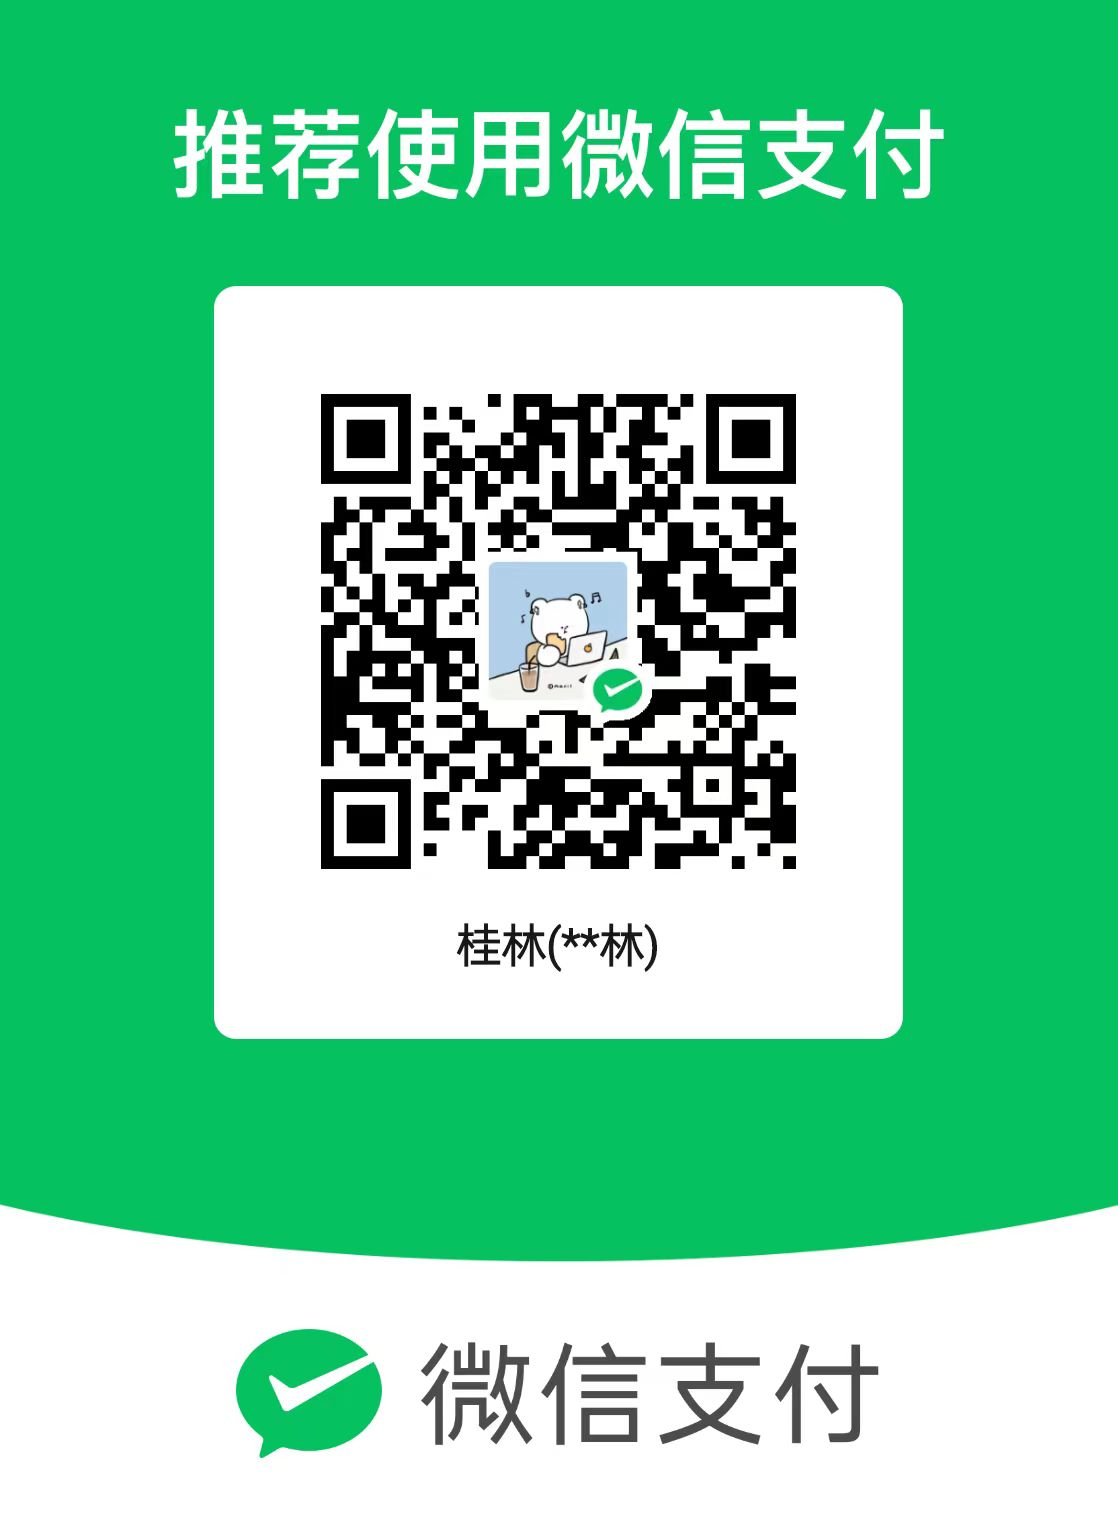
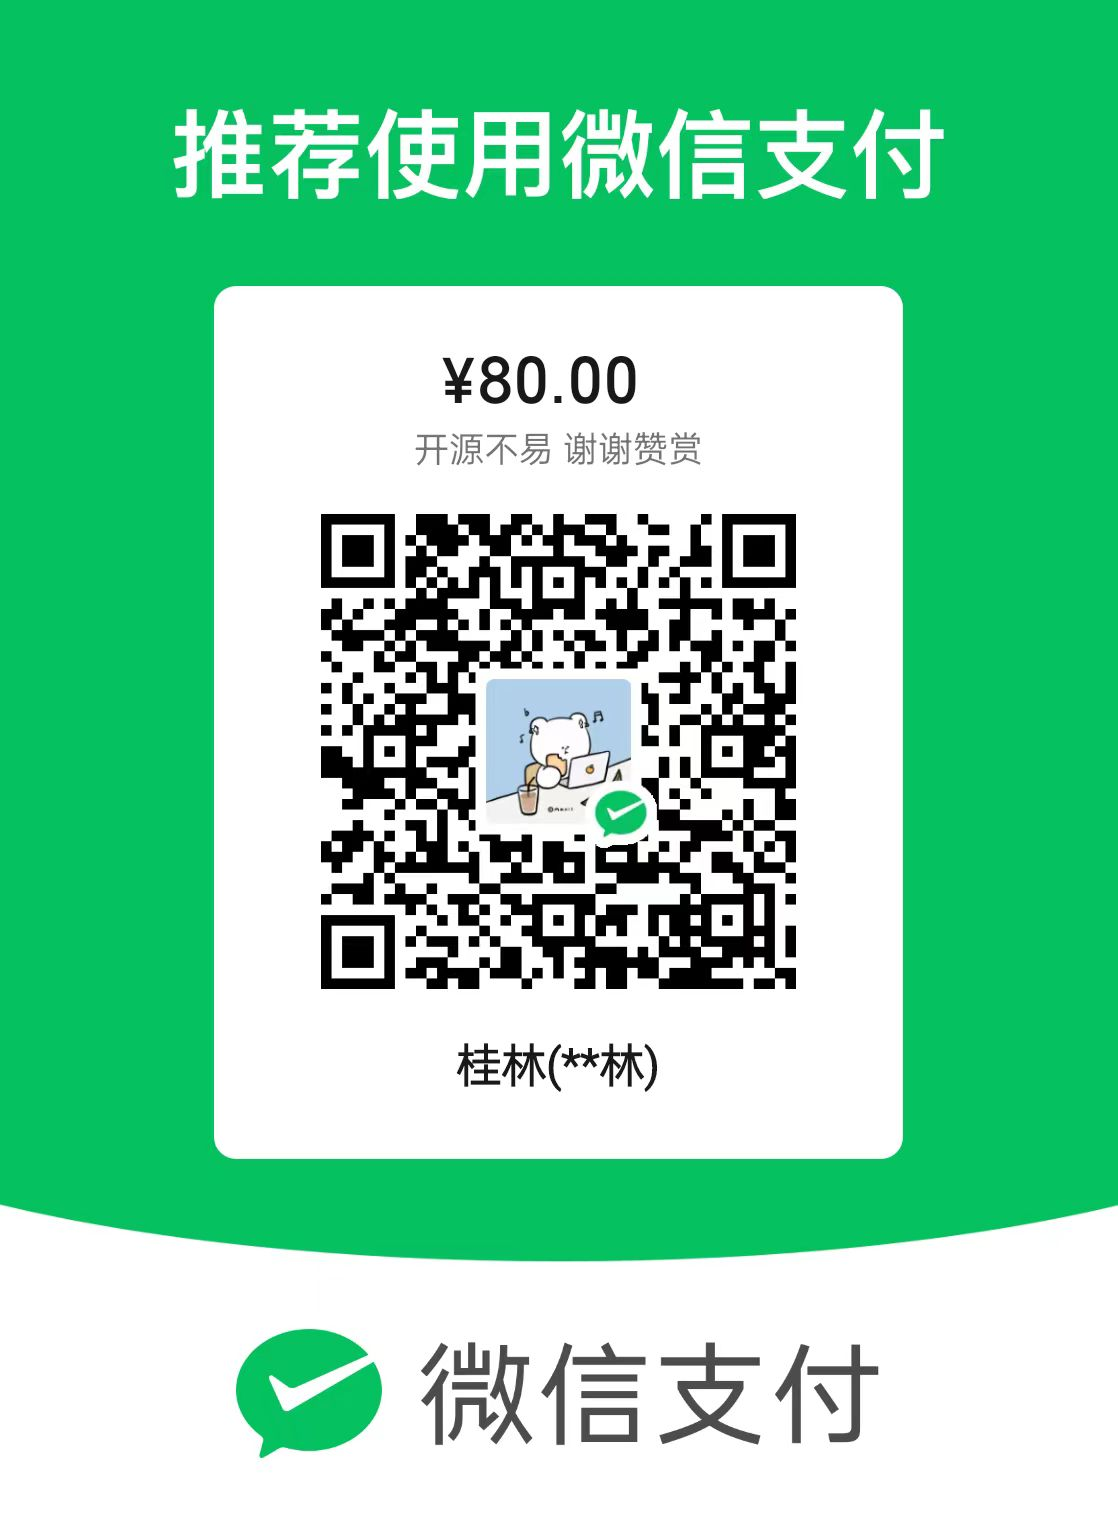
weixin

Changed region(s): [[0.2737, 0.2159, 0.7299, 0.6476], [0.1825, 0.6785, 0.8211, 0.771]]

diff --git a/src/components/code.vue b/src/components/code.vue
@@ -2,9 +2,10 @@
   <div>
     <p>*暂不开放源码</p>
     <p>*如需源码：</p>
-    <p>1.点赞关注项目</p>
-    <p>2.请作者喝杯咖啡，后加微信(337547038)获取源码</p>
-    <p>3.已获取源码的同学，未经许可不得公开传播</p>
+    <p>1.为项目点赞</p>
+    <p>2.扫码支付</p>
+    <p>3.加微信(337547038)获取源码</p>
+    <p>4.已获取源码的同学，未经许可不得公开传播</p>
     <p>
       <img src="../assets/img/weixin.jpg" :style="{ width: '160px' }" alt="" />
     </p>
